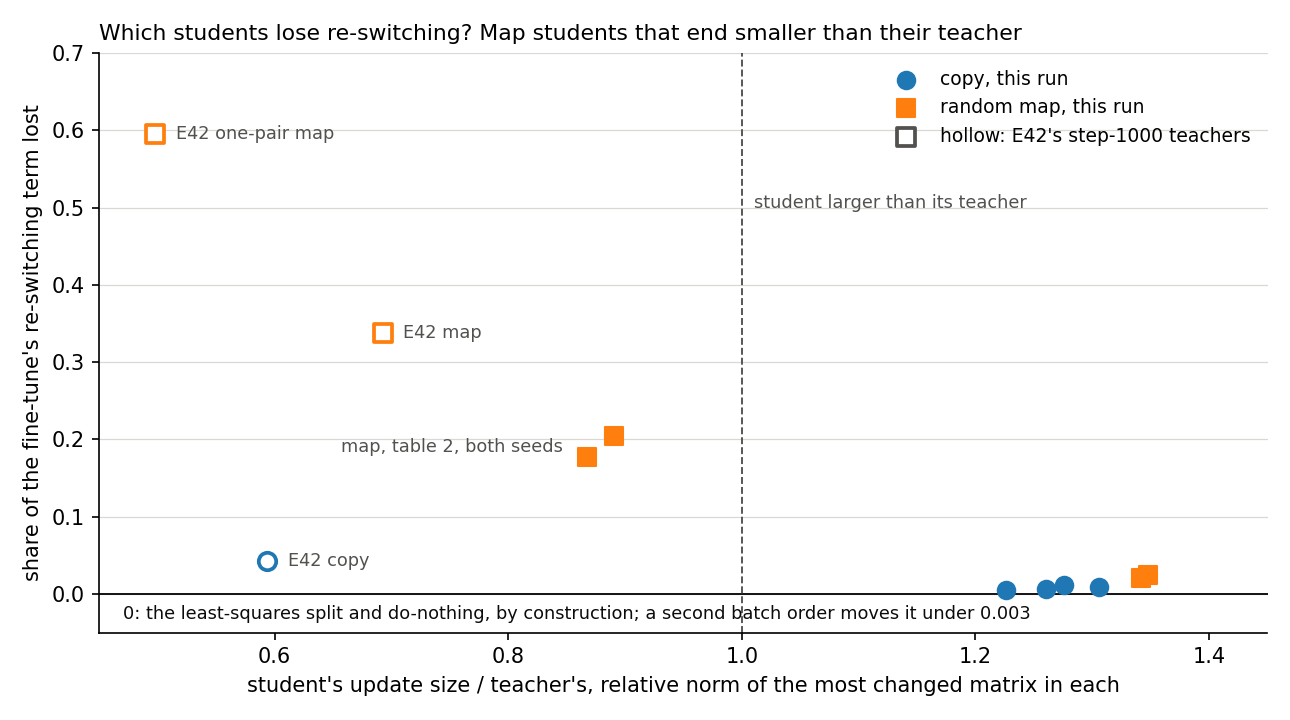
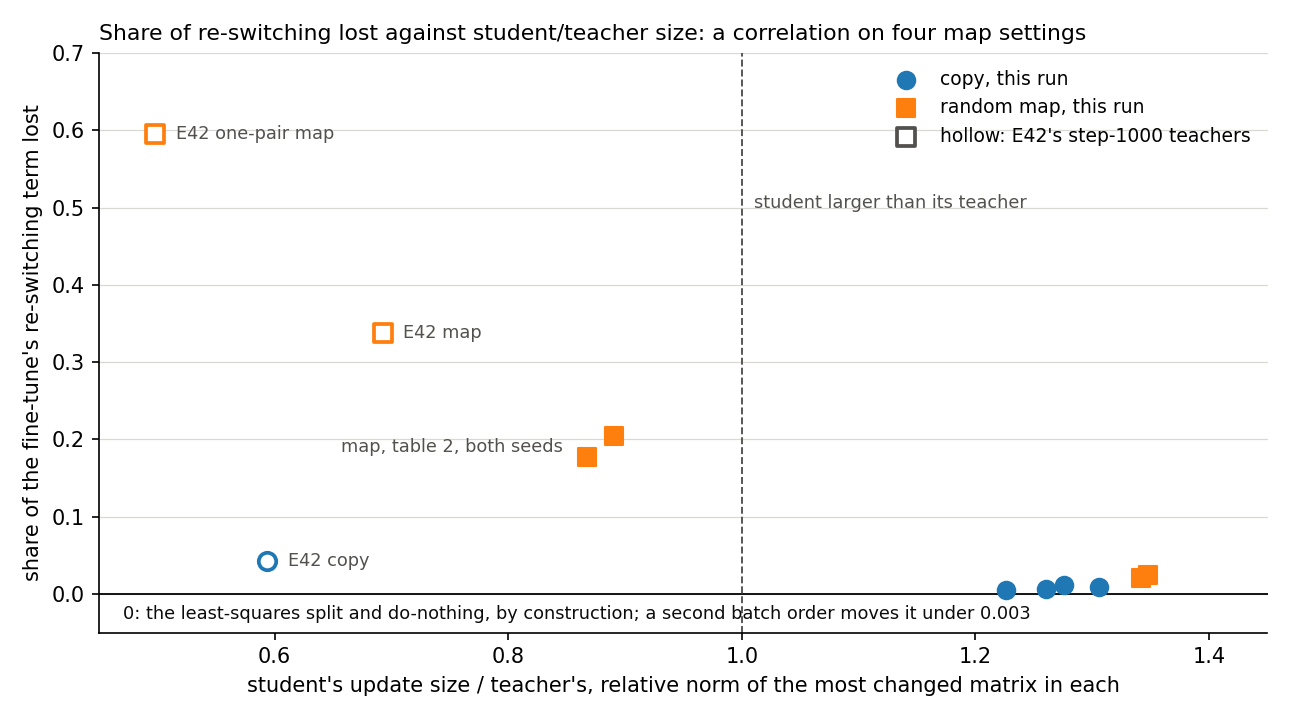
E12 Amendment 1: apply independent review's corrections to report, notebook, reach figure title

Changed region(s): [[0.062, 0.0306, 0.8372, 0.0611]]

diff --git a/experiments/new_vs_existing/plot_amend1.py b/experiments/new_vs_existing/plot_amend1.py
@@ -171,7 +171,7 @@ def reach() -> None:
     ax.set_ylim(-0.05, 0.7)
     ax.set_xlabel("student's update size / teacher's, relative norm of the most changed matrix in each")
     ax.set_ylabel("share of the fine-tune's re-switching term lost")
-    ax.set_title("Which students lose re-switching? Map students that end smaller than their teacher", fontsize=10.5, loc="left")
+    ax.set_title("Share of re-switching lost against student/teacher size: a correlation on four map settings", fontsize=10.5, loc="left")
     ax.legend(frameon=False, fontsize=9, loc="upper right")
     style(ax)
     save(fig, "amend1_reach.png")

diff --git a/reports/analyses/2026-11-02_analysis_e12-teacher-route-split.md b/reports/analyses/2026-11-02_analysis_e12-teacher-route-split.md
@@ -4,11 +4,11 @@
 `reports/reviews/2026-11-02_review_e12-amend1-code.md`; predictions `experiments/new_vs_existing/results/predictions_amend1.json`, filed before
 the run and scored as filed; notebook `notebooks/E12_new_vs_existing.ipynb`, last section; figures from `experiments/new_vs_existing/plot_amend1.py`.*
 
-We trained the decomposition's subcomponents to imitate eight fine-tunes on copy tasks and random word maps, with the leftover weights held fixed, and asked how each imitation carries its gain at the cue. On this card and at this position the two classes stay far apart and each imitation keeps its fine-tune's re-switching by the filed line, though one random-map table lost about a fifth of that term, cause unknown. For `GOALS.md`, the class difference therefore follows how the frozen importance function reads the new activations, not how the update was placed, and this run does not test faithfulness.
+We trained the decomposition's subcomponents to imitate eight fine-tunes on copy tasks and random word maps, with the leftover weights held fixed, and asked how each imitation carries its gain at the cue. On this card and at this position the two classes stay far apart and each imitation keeps its fine-tune's re-switching by the filed line, though one random-map table lost about a fifth of that term, cause unknown. For `GOALS.md`, the re-switching share that divides the classes barely depends on whether the update sits in the subcomponents or in the leftover weights, except for a fall of a fifth on one map table; this run does not test faithfulness or why the classes differ.
 
 ## What we were trying to test
 
-E12 fine-tuned the model on key → value tasks and read each fine-tune through the least-squares split. Only one number told the classes apart: how the gain at the trigger divides between subcomponents Γ switches on and subcomponents it keeps off. The least-squares split leaves a remainder in Δ, so the question stood open for a map that leaves nothing there.
+E12 fine-tuned the model on key → value tasks and read each fine-tune through the least-squares split. E12's filed route numbers parted the classes; no number about the weight update did. The route numbers say how the gain at the trigger divides between subcomponents Γ switches on and subcomponents it keeps off. The least-squares split leaves a remainder in Δ, so the question stood open for a map that leaves nothing there.
 
 Teacher training is that map. It trains the alive U and V to imitate the fine-tuned model, with Γ and Δ frozen, so the whole update ends up in the components. We call its result the student. The classes are the copy class, whose target is the key itself, and the random-map class, whose target is a fixed other word. Each class has two tables of 32 pairs and two fine-tune seeds, so there are eight fine-tunes.
 
@@ -96,7 +96,7 @@ That block moved almost wholly into the masked-off share. In nats, the student's
 
 The batch-order noise on the same scale is 0.0005 and 0.0006, which is 0.007 and 0.009 nats, read on ident32 s0 and rand32 s0.
 
-**Reading it.** The largest move is 0.059 of the fine-tune's gain, under the filed 0.10 line, so the filed verdict is "inherited". This misses our lean towards "partly", and the overshoot from E43 we leaned on did not appear. The figure shows two groups. Six states move by 0.004 to 0.009, about what training with nothing to learn writes, though that control's term goes up and all of these go down. The second map table's two seeds move by 0.05 to 0.06, about ten times more. The step-1000 teachers from E42 sit near that upper group. The verdict's line is generous for a map: it is a third of a map's re-switching share, as the filing says.
+**Reading it.** The largest move is 0.059 of the fine-tune's gain, under the filed 0.10 line, so the filed verdict is "inherited". This misses our lean towards "partly". The students of step-10 teachers did overshoot in size, ending 1.23 to 1.35 times their teachers, as E43 saw. That did not move the re-switching term, which is what we had leaned on. E43's remainder size was not read here. The figure shows two groups. Six states move by 0.004 to 0.009, about what training with nothing to learn writes, though that control's term goes up and all of these go down. The second map table's two seeds move by 0.05 to 0.06, about ten times more. E42's map students sit near that upper group. The verdict's line is generous for a map: it is a third of a map's re-switching share, as the filing says.
 
 ### 4. Why does the second map table move ten times as far? Narrowed, not explained
 
@@ -114,14 +114,14 @@ The batch-order noise on the same scale is 0.0005 and 0.0006, which is 0.007 and
 
 Size is the relative norm of the most changed matrix in each state. E42's terms are share times gain, by the same arithmetic.
 
-**Reading it.** The numbers rule out four explanations, and leave the cause open.
+**Reading it.** The numbers rule out three explanations, leave a fourth unmeasured, and leave the cause open.
 
 - **The denominator.** Not it: the change itself is about ten times larger, 1.0 to 1.2 nats against 0.06 to 0.13.
 - **A student that learned less.** Not it: the second map table's gain shortfall of under 2% would explain a twelfth of the move, by the table in section 3.
-- **The student's components.** Not it: the same nats fall appears with the released components and with the student's. The masked read with the student's components, on the student's and the fine-tune's values of Γ, differs by 1.23 and 1.01 nats, against falls of 1.23 and 1.02. So the fall is in Γ's values on the student's activations.
-- **Batch order.** Unlikely but unmeasured here: both seeds agree, and noise elsewhere is 0.0006, but the second map table has no second-order state.
+- **Which components are read.** Not it, for the read-out; the student's components still produce the weights that produce those activations. The same nats fall appears with the released components and with the student's. The masked read with the student's components, on the student's and the fine-tune's values of Γ, differs by 1.23 and 1.01 nats, against falls of 1.23 and 1.02. So the fall is in Γ's values on the student's activations.
+- **Batch order.** Unmeasured on this table. Both seeds' students used the same batch order, so their agreement bears only on the teacher's seed. Noise on the other two tables is 0.0006.
 
-What goes with the fall is shown in the figure. The second map table's students are the only ones in this run that end smaller than their teachers, and a map student's lost share grows as that ratio falls. This is a correlation on four map settings, two of them the first map table at different teacher steps. The teacher's size, its training length and its confidence all change together, and two points are from E42, whose windows nobody has compared with these. The copy class does not follow: E42's student on the copy table ends at 0.59 of its teacher and loses 4%. That loss is no more than its own gain shortfall of 5% would give. We do not assert a cause. Which subcomponents' values changed was not read, and the distance between student and teacher weights could not be read on the CPU. The first needs a GPU job, the second needs the released U and V, and neither was run.
+What goes with the fall is shown in the figure, but its axis is mostly teacher size. After 1,000 steps student size stays within 0.0170 to 0.0262 while teacher size spans 0.0137 to 0.0379, and a ratio under 1 coincides exactly with a teacher step of 30 or more. The control's size also grows by a third with nothing to learn (0.0182 to 0.0242), so the student's size includes drift. "The only ones that end smaller" is close to "the only teachers larger than a 1,000-step student reaches". The second map table's students are the only ones in this run that end smaller than their teachers, and a map student's lost share grows as that ratio falls. This is a correlation on four map settings, two of them the first map table at different teacher steps. The teacher's size, its training length and its confidence all change together, and two points are from E42, whose windows nobody has compared with these. The copy class does not follow: E42's student on the copy table ends at 0.59 of its teacher and loses 4%. That loss is no more than its own gain shortfall of 5% would give. We do not assert a cause. Which subcomponents' values changed was not read, and the distance between student and teacher weights could not be read on the CPU. The first needs a GPU job, the second needs the released U and V, and neither was run.
 
 This does not block the separation, since the fall moves the map class further from the copy class and the plus-remainder read, where the fall is absent, also separates. It does limit the second reading: "a student keeps its fine-tune's re-switching" holds cleanly on six of the eight, and on the second map table only in units of the gain.
 
@@ -142,7 +142,7 @@ This does not block the separation, since the fall moves the map class further f
 
 The off-target KL is against W₀, on held-out windows.
 
-**Reading it.** Yes, as E12 and E46 would lead you to expect at step 1000. The student's off-target KL sits within 0.008 of the fine-tuned model's on all eight, including the first map table's high value. E46's fine-tune log suggests why that value is high. The second map table's training KL falls from about 0.5 at step 10 to 0.1 at step 30, so stopping at step 10 may catch the first map table near its peak. E42's step-1000 teacher on that table reads 0.06, which fits, though the first table's path between those steps was not read. Held-out P(target) sits within 0.006 on six states.
+**Reading it.** Yes. The student's off-target KL sits within 0.007 of the fine-tuned model's on all eight, including the first map table's high value. E46's fine-tune log suggests why that value is high. The second map table's training KL falls from about 0.5 at step 10 to 0.1 at step 30, so stopping at step 10 may catch the first map table near its peak. E42's step-1000 teacher on that table reads 0.06, which fits, though the first table's path between those steps was not read. Held-out P(target) sits within 0.006 on six states.
 
 The first map table is the exception, and we cannot explain it. Its students beat their half-learned teachers by 0.03 to 0.04 in P(target), and by 0.29 nats in log-odds. All three students of that table read gain ratios over 1, and it has the poorest fit of any table. The surplus is 2% of the gain and no reading rests on it.
 
@@ -155,7 +155,7 @@ The first map table is the exception, and we cannot explain it. Its students bea
 
 One training, read under both tables. The stop did not fire, and the filing marks it as weak. The terms are 6 to 22 times under the line, and as a share of the smallest teacher's gain they are at most 0.018.
 
-Three things here are not explained. The student against W₀ ends further from it than it began: size 0.0182 to 0.0242, loss 0.0078 at step 1 to 0.0266 at step 1000. Both targets' log-odds rise by about 0.3 nats. And most of that sits masked-off. The masked-off term is three to four times what Amendment 8 read on emoticon windows, about 0.06 nats. This run's start gain of 0.02 nats also corrects the plan's "about 1 nat", as the review expected. None of this bears on a 13-nat gain, but it is a reason not to read small moves as signal.
+Three things here are not explained. The student against W₀ ends further from it than it began: size 0.0182 to 0.0242, loss 0.0078 at step 1, 0.179 at step 10 and 0.0266 at step 1000. Both targets' log-odds rise by about 0.3 nats. And most of that sits masked-off. The masked-off term is three to four times what Amendment 8 read on emoticon windows, about 0.06 nats. This run's start gain of 0.02 nats also corrects the plan's "about 1 nat", as the review expected. None of this bears on a 13-nat gain, but it is a reason not to read small moves as signal.
 
 ### How far the three verdicts are independent
 
@@ -167,25 +167,25 @@ They are not three pieces of evidence. On the student's state the rest is 0.013 
 | student's re-switching share | 0.76-0.80 | 0.23-0.26 | 0.493 | 0.044 |
 | student's masked-off share, the scored one | 0.18-0.23 | 0.71-0.74 | 0.476 | 0.048 |
 
-So there is one new fact: Γ on the student's activations gives about what it gives on the fine-tune's. Given that, a small rest and E12's separation, the first and third verdicts follow by arithmetic. The small rest is itself mostly expected, since Δ is fixed and E42 read 0.03 to 0.05. A separation by a wider gap than least-squares' is therefore no extra support. It only records that the remainder moved from Δ to masked-off.
+So there is one new fact: on six of eight states, Γ's values on the student's activations give the released subcomponents about the same masked log-odds as on the fine-tune's; on the second map table they give 1.0 to 1.2 nats less, about a fifth of the term. Whether the same subcomponents switch was not read. Given that, a small rest and E12's separation, the first and third verdicts follow by arithmetic. The small rest is itself mostly expected, since Δ is fixed and E42 read 0.03 to 0.05. A separation by a wider gap than least-squares' is therefore no extra support. It only records that the remainder moved from Δ to masked-off.
 
 ## What we learned
 
-For the goal's second branch, the class difference survives on teacher training's own output: which subcomponents Γ switches on is set by the activations, and a student's activations give nearly the same answer as its fine-tune's. So the map does not change the difference, on these eight fine-tunes, this card and this position. Teacher training fills the components without filling the masked model. For the random maps, more than seven-tenths of the gain is carried by subcomponents Γ keeps off, against about half under the least-squares split. The route split is a mechanism reading, not the weak version's pass criterion, and no faithfulness harness ran here, so this run gives no verdict on the weak version. The classes are copy and random map: a new circuit from old pieces reads "elicited", so this does not say the map is new capability.
+For the goal's second branch, the class difference survives on teacher training's own output. On six of eight states, Γ's values on the student's activations give the released subcomponents about the same masked log-odds as on the fine-tune's; on the second map table they give 1.0 to 1.2 nats less, about a fifth of the term. Whether the same subcomponents switch was not read. So the re-switching share that divides the classes barely depends on whether the update sits in the components or in Δ, except for that fall, on these eight fine-tunes, this card and this position. The masked-off share takes up what Δ no longer holds. This run does not test faithfulness or why the classes differ. Teacher training fills the components without filling the masked model. For the random maps, more than seven-tenths of the gain is carried by subcomponents Γ keeps off, against about half under the least-squares split. The route split is a mechanism reading, not the weak version's pass criterion, and no faithfulness harness ran here, so this run gives no verdict on the weak version. The classes are copy and random map: a new circuit from old pieces reads "elicited", so this does not say the map is new capability.
 
 ## How compelling is the evidence
 
 - **Coverage.** Two tables and two seeds per class, one key → value format, one position, one card. Teachers are at first learned step only. Nothing here covers other tasks or the larger model.
 - **Noise.** Two batch-order pairs, on ident32 s0 and rand32 s0, at 0.002 on the masked-off share and 0.0006 on the filed move. Nothing was read on the second map table, where the moves are large.
 - **Blind to.** Which subcomponents switch on: the same share could be other subcomponents. This run read shares, not sets.
-- **Confound carried from E12.** The first map table's teachers hold P(target) at only 0.54 to 0.59. Its six-state agreement is partly agreement with a half-learned teacher, and the well-learned second map table is the one that moves.
+- **Confound carried from E12.** The first map table's teachers hold P(target) at only 0.54 to 0.59. The first map table's agreement is with a half-learned teacher, and the well-learned second map table is the one that moves.
 - **The inherited verdict.** Its 0.10 line is a third of a map's share. Read against a map's own re-switching term, the second map table lost a fifth.
-- **Batches.** Seed-0 students share their first batches with their teachers, seed-1 students do not. No difference between the seeds shows here.
+- **Batches.** Seed-0 students share their first batches with their teachers, seed-1 students do not. No difference between the seeds shows here, but all eight students train at batch order 0, so the s0/s1 comparison cannot separate shared batches from teacher seed.
 - **Controls.** All 44 filed checks passed. Do-nothing's identities read exactly. The re-switching share against E12's differs by at most 0.0013, across cards.
 
 ## Surprises
 
-- **Filed lean missed.** We leaned towards "partly" on the re-switching term and it read "inherited". Step-10 teachers did not overshoot.
+- **Filed lean missed.** We leaned towards "partly" on the re-switching term and it read "inherited". An overshoot in size appeared on the step-10 teachers but did not move re-switching.
 - **The second map table's fall** is ten times the others', unexplained beyond section 4.
 - **The first map table's students** beat their teachers on held-out P(target), unexplained.
 - **The control's student moved further from W₀** with nothing to learn, unexplained, small.
@@ -194,7 +194,7 @@ For the goal's second branch, the class difference survives on teacher training'
 
 `what_changes_next` in the filing has this clause fire: "P1 separates and P2 inherited: E42's claim widens to two tables per class; nothing further runs." Its preamble applies: "Each clause ends with the user hearing the result first." This also applies: "P3 masked-off, not masked-off or mixed is reported against E42's lean and changes no step." No plus-remainder disagreement arises, so that clause does not.
 
-So nothing is proposed as filed. One optional read exists if the fall matters to the user. A cluster debug job over the saved students would read which subcomponents' values fall on the second map table. If a few subcomponents carry the fall, it is about those; if it is diffuse, the reach reading gains weight.
+So nothing further is proposed as filed. The fall is being run down as E12 Amendment 2, a free cluster job; saved students are bf16 offsets, so that job first reproduces the falls from fp32 weights.
 
 ## Scorecard
 
@@ -220,7 +220,7 @@ Filed expected values on the student, all held:
 | e_gate, map | 0.60-0.85 | 0.708-0.737 |
 | 1 − r − e_gate | at most 0.06 | at most 0.037 |
 | gain ratio | at least 0.7 | at least 0.984 |
-| e_gate of state (b) against (a) | within 0.1, a guess | within 0.071 |
+| e_gate of state (b) against (a) | within 0.1, a guess | within 0.0711 |
 
 ## Departures from the literature
 
@@ -233,7 +233,7 @@ Departures from this project's own sources, for the record. From E12: a differen
 
 ## Not run
 
-- **Which subcomponents' values fall on the second map table,** fine-tune against student. Needs a GPU read of saved offsets.
+- **Which subcomponents' values fall on the second map table,** fine-tune against student. Being run as E12 Amendment 2 (see What next).
 - **Distance between student and teacher weights.** It needs the released U and V, and the project's hook refuses loading the model on a CPU. A GPU job would read it in seconds.
 - **A second batch order on the second map table.**
 - **The plan's other reads:** the Pile harness on any student, the Pile-text arm, step 100, more than two batch orders, step-1000 teachers on the second tables, switched-on counts and overlap with E12's sets, a null teacher on these windows, a second random start, E12's other numbers on these states, other tasks, Qwen.

diff --git a/experiments/TRIED.md b/experiments/TRIED.md
@@ -138,7 +138,7 @@ Codes E1–E13 are the ones the research log ("Update Decomposition", see `READM
 | E63 | Do fine-tunes built to elicit sit on fewer MLP neurons than fine-tunes built to teach something new? "Built to elicit" is how the task was built, not the causal label of `decisions.md` row 112; these pairs have no causal check. (`experiments/neuron_sparsity/`, `src/commute/neuron_sparsity.py`, `cluster/neuron_sparsity.sbatch`, 2026-11-02; plan `reports/plans/2026-11-02_plan_e63-neuron-sparsity.md`; analysis `reports/analyses/2026-11-02_analysis_e63-neuron-sparsity.md`, `notebooks/E63_neuron_sparsity.ipynb`, figures `experiments/neuron_sparsity/figures/`; MATS debug L40, job 48527, 2 min 12 s, $0) | Five numbers on 26 saved states of three families: W1 weight sparsity, W1g the same on the first-batch gradient, W2 rescale share, A1 per-window activation sparsity, C1 per-window causal count, each against a rotated, shuffled-target, Gaussian or random-order reference. A number answers yes only if it separates at matched size (T1), at equal progress (T2) and on families B and C (T3_B, T3_C), beats the same gap on its reference, and lies on the sparser side of that reference. Rules amended before the run after the code review; W1 was seen by the reviewer before the amendments. | **None answers yes** (recomputed; an independent check agrees, `reports/reviews/2026-11-02_review_e63-analysis.md`). W1 and W1g pass nothing: W1 separates with elicit denser, W1g separates on no test. W2 passes T2, T3_C and its guard, by at most 0.0003 where the control reads 1; the update as a whole does not lie along neurons' weights, though a rescale of 5-8 neurons would not show. A1 passes T1, T3_C and both guards; its T2 failure is a block effect, since its rotated value reads block shares only, and its no rests on family B's reversal. C1 passes T3_C (3.86 against 6.76) and its guard; T1 misses by 0.035 under the floor of 1 (7.92 against 8.88), T2 is 0.17, and T3_B is under the floor with a sign that depends on the table (-0.70, +0.73 on the other keys). C1 shows sufficiency only: top k by shift are enough for half, about 240 and 470 neurons, against E56's mean ranks at 4096 and 12288 on half the whole gain. The gap is smaller at the cipher's own step, a larger update; elicit was read at one step only, so progress is not told from size. Leans: W1 no right (not blind), W2 no right, C1 missed narrowly. All four tests compare one task with one task: false yes 6-9% per number and 25-37% over five before references, and a kind effect of one task SD passes about a third of the time. | Neurons do not map eliciting more cleanly, at this size and on these pairs, a null of a low-power rule. A reading of saved numbers, not a filed test: r follows the build on all three families (E60's table.json: 0.78 against 0.27 on B, 0.76 against 0.16 on C), with no filed reference and no causal check. The E55 truth-set reading needs the user's say. Not run: SGD fine-tunes of the pairs, attention-head sparsity, elicit past step 10 (not saved), distinct neurons over all windows, a knock-out of the top k. |
 | E61 Stage A and five checks | Qwen3-1.7B: do the fine-tunes' readings see what training saw, and do five things the pipeline audit found uncompared change E45's and E57's readings? (`experiments/qwen_recipe/run.py`, `checks.py`, `plot.py`, 2026-11-02; plan `reports/plans/2026-11-02_plan_e61-direct-share-size.md`; analysis `reports/analyses/2026-11-02_analysis_e61-recipe-checks.md`) | No training. Saved states read three ways: full precision, bf16 autocast, weights rounded to bf16 then full precision; own-answers steps 2, 3, 4, 100, human solutions 3, 5, 100, template 4, 8, 100. Generation at full precision at template 8, 19, human solutions 100. Checks on the 128 maths rows or as filed: W0 + 1e-3 of E40's update; K0 on whole problems; three sizes on six changes; own-answers gain at full precision on 1,319 problems; direct share with truly original masks on 16 rows, four changes. L40, $0, jobs 48367, 48473-48747. | **Rounding confirmed for the readings listed.** Own step 4 reads 0.441 at full precision, 0.055 under autocast and rounded. Readers agree at step 100 within 0.03, excess 0.011, -0.001, 0.005; own's whole rise is under that tolerance. Template step 8 answers 0.13 against 0.70 correct. Checks: no floor from Γ's cast (-3e-5, 133 on); K0 0.056 against 0.070, same; direct share within 0.0022 of E57's, same order; own gain +0.037, se 0.011, survives (rounded +0.052). Maths fine-tunes stand out on K00 - K0 and on KL with the changed model as reference, barely on KL with the original as reference. | Early "learned" flags do not stand; own-answers "never learned" withdrawn as a statement about learning, filed rule unchanged. Direct share against size remains open; invented facts' value unexplained; own gain against the unfiltered run not settled at full precision. Rates not tested. Next: E61 Parts 1 and 2. |
 | Method table | The benchmark line's one table: every method against every fine-tune, each row marked by how its truth was set, written from existing results (`experiments/method_table/build.py`, `plot.py`, `results/table.json`, `figures/shares.png`; 2026-11-02; plan `reports/plans/2026-11-02_plan_merge-reuse-into-baseline.md` "One table"; analysis `reports/analyses/2026-11-02_analysis_method-table.md`, revised after `reports/reviews/2026-11-02_review_method-table.md`; log section `methodtable`, on the experiments page; no run, $0) | Fourteen fine-tune pairs by sixteen methods, 224 cells, each with reading, reference, positive control, one of five verdicts and jq pointers (695 paths checked with jq). Sources: E51, E52, E54, E56, E58 Amendments 3, 4, 6, 7, E59, E60, E62 with Amendment 2, E63, E64, E55 C1, C1b, C2's 400-step check, C3 and its ladder. Label rule from `decisions.md` 2026-11-02 | No fine-tune has VPD and a cheaper method both standing, with controls held, against a truth that is more than an assumption (derived check: none). Task P vs N: labels equal the task, so 21 of 21 is not discrimination; VPD's 400-step reading fails its control (identity prompt about 0.07, bar 0.5). C1: task fixed, label tied to steps, VPD's reuse side unread. E62: r unscored as filed, `copy_not_elicitation`, copy side not settled; Amendment 2 reads `size_does_not` for r's gap, though size separates the pair as a labeller. Pruning revival and reverse fine-tuning fail their positive control on the 67M. r separates nine assumption rows and not the class map from its twin (`kind_only`). W0's prior separates where r does on the rows that read it, except two matched pairs (A6 factor 1.6, E62 factor 1.3), both with the target in context; one post-hoc cut sorts E58's eight maps. Steering fails on rank-1 vs cipher at 24 keys; TRIED's "baselines" there are D, prior and MLP share. 139 of 224 cells not run | The line's question stays open; no label changes, and ten rows' truth now reads "only by assumption". Next as in the plan: the harder counting test via `/design`, reading the C1 row first, then Stage B's patch as the causal label the 67M rows lack |
-| E12 Amendment 1 | Does the masked-off share still separate copy tasks from random maps when the state is teacher training's own, not the least-squares split? (`experiments/new_vs_existing/amend1.py`, `cluster/new_vs_existing_amend1.sbatch`, 2026-11-02, user's backlog entry and decision; plan `reports/plans/2026-11-02_plan_e12-teacher-route-split.md`; predictions `results/predictions_amend1.json`; `reports/analyses/2026-11-02_analysis_e12-teacher-route-split.md`, `notebooks/E12_new_vs_existing.ipynb` last section; MATS L40 `debug`, job 48885, 23 min, $0) | E46's rebuilds of E12's eight fine-tunes (first learned step) as teachers, E42's arm A student of each (Adam 1e-5, 1000 steps), Γ and Δ frozen; route split at the trigger on 97 held-out windows, read as teacher training's own state (scored first) and plus remainder (beside it). Control first: do-nothing and least-squares against E12, then a teacher = W₀ student from Amendment 8's moved start, in nats; second batch order on ident32 s0 and rand32 s0 | Ran. Masked-off share copy 0.18-0.23 against map 0.71-0.74 (gap 0.476, within 0.048; least-squares 0.331, 0.086), and every student keeps its fine-tune's re-switching by the filed line (largest move 0.059; lean "partly" missed), but these are one fact, not three, since the share is nearly 1 − r. What least-squares left in Δ lands masked-off; the second map table lost 18-20% of its re-switching term, in Γ's values on the student's activations, cause not established | P1 separates, P2 inherited, P3 not masked-off; clause fired: E42's claim widens to two tables per class, nothing further runs. Not run: which subcomponents' values fall on the second map table, student-teacher weight distance, a second batch order there, Pile harness, Pile-text arm, step-1000 teachers on the b tables, null teacher, cheap-method arms (baseline-lead's) |
+| E12 Amendment 1 | Does the masked-off share still separate copy tasks from random maps when the state is teacher training's own, not the least-squares split? (`experiments/new_vs_existing/amend1.py`, `cluster/new_vs_existing_amend1.sbatch`, 2026-11-02, user's backlog entry and decision; plan `reports/plans/2026-11-02_plan_e12-teacher-route-split.md`; predictions `results/predictions_amend1.json`; `reports/analyses/2026-11-02_analysis_e12-teacher-route-split.md`, `notebooks/E12_new_vs_existing.ipynb` last section; MATS L40 `debug`, job 48885, 23 min, $0) | E46's rebuilds of E12's eight fine-tunes (first learned step) as teachers, E42's arm A student of each (Adam 1e-5, 1000 steps), Γ and Δ frozen; route split at the trigger on 97 held-out windows, read as teacher training's own state (scored first) and plus remainder (beside it). Control first: do-nothing and least-squares against E12, then a teacher = W₀ student from Amendment 8's moved start, in nats; second batch order on ident32 s0 and rand32 s0 | Ran. Masked-off share copy 0.18-0.23 against map 0.71-0.74 (gap 0.476, within 0.048; least-squares 0.331, 0.086), and every student keeps its fine-tune's re-switching by the filed line (largest move 0.059; lean "partly" missed), but these are one fact, not three, since the share is nearly 1 − r. What least-squares left in Δ lands masked-off; the second map table lost 18-20% of its re-switching term, in Γ's values on the student's activations, cause not established | P1 separates, P2 inherited, P3 not masked-off; clause fired: E42's claim widens to two tables per class, nothing further runs as filed; the fall is being run down as E12 Amendment 2 (free cluster job, first reproducing the falls from fp32 weights since saved students are bf16 offsets). Not run: which subcomponents' values fall on the second map table (Amendment 2), student-teacher weight distance, a second batch order there, Pile harness, Pile-text arm, step-1000 teachers on the b tables, null teacher, cheap-method arms (baseline-lead's) |
 | E66 feasibility probe | **Coded, not run.** Can a context patch and a neuron ablation read anything on the 67M's fine-tunes, before a rule is filed for any row? W0, three built controls, E62's six states, the eight copy and random-map states and E62 Amendment 2's scaled copies, no label given (`experiments/interchange_67m/run.py`, `src/commute/ctxpatch.py`, `cluster/interchange_67m.sbatch`, 2026-11-02, user's decision, option A of `reports/plans/2026-11-02_advice_e66-review-FABLE.md`; plan `reports/plans/2026-11-02_plan_e66-interchange-67m.md`, Amendment 1; predictions `results/predictions.json`, controls only) | Not run | Waits on a fresh code review and one debug job; a decision card after it says whether the 41 rows get filed rules or E65 returns |
 
 ## Proposed and dropped

diff --git a/reports/reviews/2026-11-02_review_e12-amend1-analysis.md b/reports/reviews/2026-11-02_review_e12-amend1-analysis.md
@@ -1,0 +1,86 @@
+# Review: independent check of the E12 Amendment 1 analysis
+
+Fresh Opus agent, 2026-11-02; it wrote neither the code nor the report. Target:
+`reports/analyses/2026-11-02_analysis_e12-teacher-route-split.md` (line numbers as of 0d6b06a). Working files:
+`~/commute-data/scratch/commute-lead/e12a1-check/`.
+
+**Verdict.** The scored numbers and verdicts are right: P1 separates, P2 inherited, P3 not masked-off. The code measures
+what the report says. Three interpretive claims overreach or are wrong, all at lines readers will quote.
+
+## High
+
+**H1. "The overshoot did not appear" is contradicted by the report's own table.** Lines 99 and 188. Lines 107-109 show
+the six step-10 states ending at 1.23-1.35 times their teacher's size, which matches E43's overshoot (0.0141 against
+0.0113, 1.25 times, `2026-10-28_analysis_e43-teacher-remainder.md`). The plan's 5.1× is the remainder's squared size,
+which this run did not read (line 237). What was absent is a large move in re-switching.
+- Line 99: "The students of step-10 teachers did overshoot in size, ending 1.23 to 1.35 times their teachers, as E43 saw. That did not move the re-switching term, which is what we had leaned on. E43's remainder size was not read here."
+- Line 188: "An overshoot in size appeared on the step-10 teachers but did not move re-switching."
+
+**H2. "A student's activations give nearly the same answer" about which subcomponents is not measured.** Line 174, line
+170 ("one new fact"), notebook cell 33. Line 180 says the run read shares, not sets; `.students.*.a.max_dg` is 1.0 on all
+eight states, so it says nothing; on the second map table the number differs by a fifth.
+- Wording: "On six of eight, Γ's values on the student's activations give the released subcomponents about the same masked log-odds as on the fine-tune's. On the second map table they give 1.0 to 1.2 nats less, about a fifth of the term. Whether the same subcomponents switch was not read."
+
+**H3. The summary's "therefore ... not how the update was placed" overreaches.** Line 7, notebook cell 33 ("so the map
+that placed the update does not change it"), line 174 ("the map does not change the difference"). The re-switching term
+reads released components and Γ on activations (`local_faith.py:266-267`), so placement reaches it only through the
+weights; line 170 concedes this is close to arithmetic. The scored number did move with placement: masked-off rises
+0.13-0.29 on every state, the gap goes from 0.331 to 0.476. Two placements were compared and no alternative cause of the
+class difference was tested.
+- Wording: "For `GOALS.md`, the re-switching share that divides the classes barely depends on whether the update sits in the components or in Δ, except for a fall of a fifth on one map table. The masked-off share takes up what Δ no longer holds. This run does not test faithfulness or why the classes differ."
+
+## Medium
+
+**M1. "Both seeds agree" is not evidence about batch order.** Lines 122, 183. All eight students train at batch-order 0
+(`amend1.py:259`, generator seeded at `component_training.py:144`), so s0 and s1 students on one table draw identical
+batches and differ only in their teacher.
+- Line 122: "Batch order: unmeasured on this table. Both seeds' students used the same batch order, so their agreement bears only on the teacher's seed. Noise on the other two tables is 0.0006."
+- Line 183 should say the s0/s1 comparison cannot separate shared batches from teacher seed.
+
+**M2. "The numbers rule out four explanations" is inconsistent.** Line 117: the fourth is "unlikely but unmeasured"; say
+"rule out three and leave one unmeasured". Line 121's "The student's components. Not it" is correct only for the
+read-out; the student's components produce the weights that produce those activations. Header: "Which components are
+read."
+
+**M3. The reach figure's axis is mostly teacher size, and its title answers more than the text allows.** Lines 103-124;
+`plot_amend1.py:174`. After 1,000 steps student size stays in 0.0170-0.0262 while teacher size spans 0.0137-0.0379. Ratio
+under 1 coincides exactly with teacher step ≥ 30. C1's size also grows by a third with nothing to learn (0.0182 to
+0.0242), so the numerator includes drift. "The only ones that end smaller" is close to "the only teachers larger than a
+1,000-step student reaches". Add one sentence saying this. Retitle: "Share of re-switching lost against student/teacher
+size: a correlation on four map settings".
+
+**M4. The proposed read uses lossy files without saying so.** Lines 197, 236. Saved students are bf16 offsets
+(`arms.py:52`); `amend1.py:3` and the filing's `measurements.state` say students are compared only from fp32 weights. The
+follow-up should first reproduce the 1.02 and 1.22 nat falls from reloaded offsets, or retrain in-job at about 105 s per
+student. The rounding's size was not measured.
+
+**M5. "Optional ... if the fall matters to the user" sits badly with two standing user rules** (run down anomalies first;
+don't ask for cheap recommended checks). Line 197. The lead's call: see "What the lead did".
+
+## Low
+
+- Line 11, "Only one number told the classes apart". E12's report parts the classes on two route numbers and on switched-on counts (107-139 against 21-51), layers and seed overlap (2026-10-20 analysis, lines 158-162, 221). Wording: "E12's filed route numbers parted the classes; no number about the weight update did."
+- Line 99, "The step-1000 teachers from E42 sit near that upper group". True of the maps (0.053, 0.063); E42's copy student reads 0.027. Say "E42's map students".
+- Line 145 and notebook cell 33, "within 0.008". The largest difference is 0.0062 (rand32 s1). Say 0.007.
+- Line 145, "as E12 and E46 would lead you to expect at step 1000". Neither run has a student or a step 1000. Cite E42 or cut it.
+- Line 158, C1. "Loss 0.0078 at step 1 to 0.0266 at step 1000" hides the curve: it peaks at 0.179 at step 10, then falls about sevenfold (`.c1.curve`). Give all three values.
+- Line 181, "Its six-state agreement is partly agreement with a half-learned teacher". Only two of the six are half-learned. Say "the first map table's agreement is with a half-learned teacher".
+- Line 223, "within 0.071". The value is 0.0711.
+
+## Checked and found sound
+
+Provenance (results sha256, commit 48cf644, log's `[score]` identical to `.score`, 44 checks, 12 offset files). Sections
+1-5 recomputed from raw cells (`recheck.py`), all shares, gaps, ranges, verdict tables and the nats claims. `amend1.py` and
+`route_split` implement the report's cells, shares, states (a) and (b) and the pool; P1-P3 match the filing; identities
+read exactly 0. Student and teacher sizes share one definition; hard-coded numbers in `plot_amend1.py:30-31` match
+`regating_table/results/large/full.log`. Section 4's inference holds: the fall lies in Γ's values, as L11 differs only
+through the gates. Figures match the data apart from M3's title. Notebook cells 22-33 are consistent with the report and
+carry only the H2, H3 and 0.008 fixes.
+
+**Not checked.** Whether E42's windows match these windows; E50 Amendment 1's claim beyond its `TRIED.md` row.
+
+## What the lead did
+
+All findings applied. M5: the fall is run down as E12 Amendment 2, a free cluster job (one bullet in the report points to
+it) rather than left as an option for the user; the filed clause's "nothing further runs" is departed from for this
+anomaly only, and the departure goes to the user as an FYI.

diff --git a/docs/research_log/PENDING.md b/docs/research_log/PENDING.md
@@ -12,5 +12,5 @@ A flush applies every line to `parts/` (README.md → Layout), rebuilds, republi
 - 2026-11-02 · decisions.md · card decision-after-e62-a3 (remove, decided), next, E62 card · the user chose the free test: E62 Amendment 4 is due to run, one cluster debug job, $0; does the copying fine-tune's mask open the pieces the original model's own mask opens where it copies, and does closing them remove the masked gain.
 - 2026-11-02 baseline-lead · reports/plans/2026-11-02_plan_e66-interchange-67m.md, reports/plans/2026-11-02_advice_e66-review-FABLE.md · card decision-e66-probe (new, pending; label it baseline-lead's, not "commute"), next · the plan for a causal label on the 67M's fine-tunes is drafted and reviewed, not approved. Fable's advice: both planned readings miss changes made before the point they read, and filed steering shares put three quarters of the copy maps' gain there, so "new" could follow from the blind spot. Options, cold-reader form: a 10-minute, $0 probe on saved states and built controls, then decide (recommended); go straight to all 41 states with Fable's fixes (about 1 h, $0, saves a round trip if the probe would pass, two reviews wasted if not); or design a swap of the key instead, the only row where VPD could beat every cheap method. Limit for all but the last: VPD's best outcome is a tie with update size and a win over the prior only.
 - 2026-11-02 baseline-lead · experiments/TRIED.md row "E66 feasibility probe", reports/plans/2026-11-02_plan_e66-interchange-67m.md (Amendment 1), experiments/interchange_67m/results/predictions.json · experiments (E66 card, one line), card decision-e66-probe (remove, decided) · coded and control predictions filed, not run: one debug job asks whether the context patch and the units share can read anything on the 67M before any row gets a rule.
-- 2026-11-02 · reports/analyses/2026-11-02_analysis_e12-teacher-route-split.md, notebooks/E12_new_vs_existing.ipynb, experiments/TRIED.md row "E12 Amendment 1" · experiments (E12 card), claims, timeline · ran, $0: on teacher training's own states of E12's eight fine-tunes the masked-off share still separates copy tasks from random maps (0.18-0.23 against 0.71-0.74), students keep their fine-tunes' re-switching by the filed line, and what least-squares left in Δ lands masked-off; one fact, not three, and the second map table's 18-20% fall in its re-switching term is unexplained; nothing further runs.
+- 2026-11-02 · reports/analyses/2026-11-02_analysis_e12-teacher-route-split.md, notebooks/E12_new_vs_existing.ipynb, experiments/TRIED.md row "E12 Amendment 1" · experiments (E12 card), claims, timeline · ran, $0: on teacher training's own states of E12's eight fine-tunes the masked-off share still separates copy tasks from random maps (0.18-0.23 against 0.71-0.74), students keep their fine-tunes' re-switching by the filed line, and what least-squares left in Δ lands masked-off; one fact, not three, and the second map table's 18-20% fall in its re-switching term is unexplained; nothing further runs as filed, and the fall is being run down as E12 Amendment 2 (free cluster job).
 - 2026-11-02 regating-lead · reports/analyses/2026-11-02_analysis_e62-amend4-control-stop.md, notebooks/E62_induction_cue.ipynb, experiments/TRIED.md row "E62 Amendment 4", experiments/induction_cue/results/amend4.json · E62 card, timeline only; provisional, independent check not yet done, so not above the cards · job 48945, $0, stopped at its filed control: at the second A the original model's masked fall under head (2,4) is 0.19 of the target model's against a bar of 0.25 (`control_failed_mask`), though the target model's fall is 4.82 of a lean of 6.84 and the masked forward keeps 0.64 of the lean; stages 2-4 did not run, so no reading of whether the fine-tune's mask opens the original model's subcomponents; cause not known; what runs next is a pending decision.
